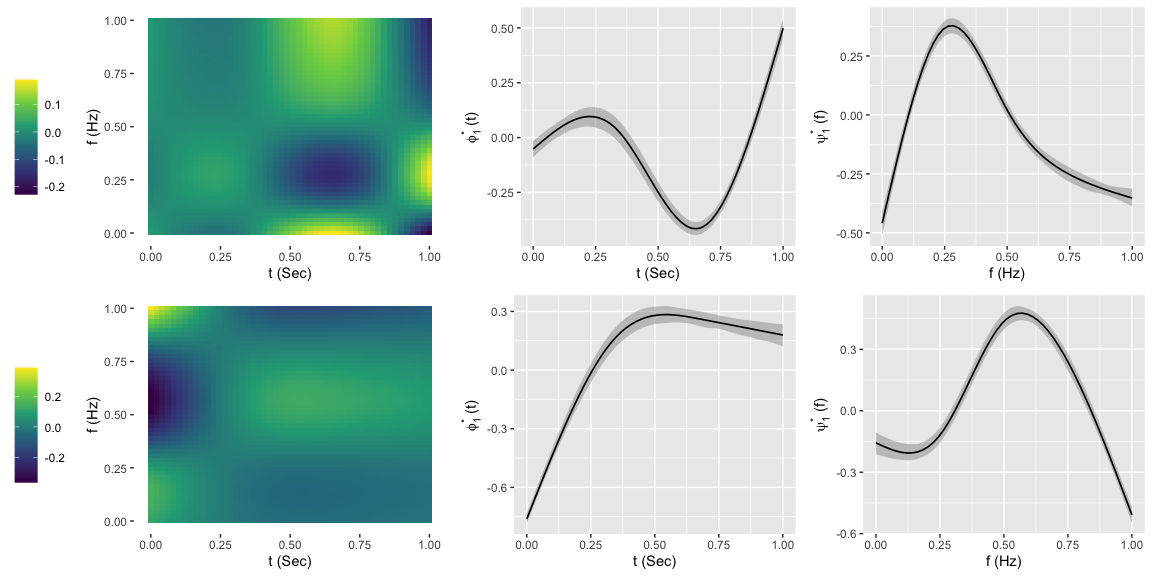
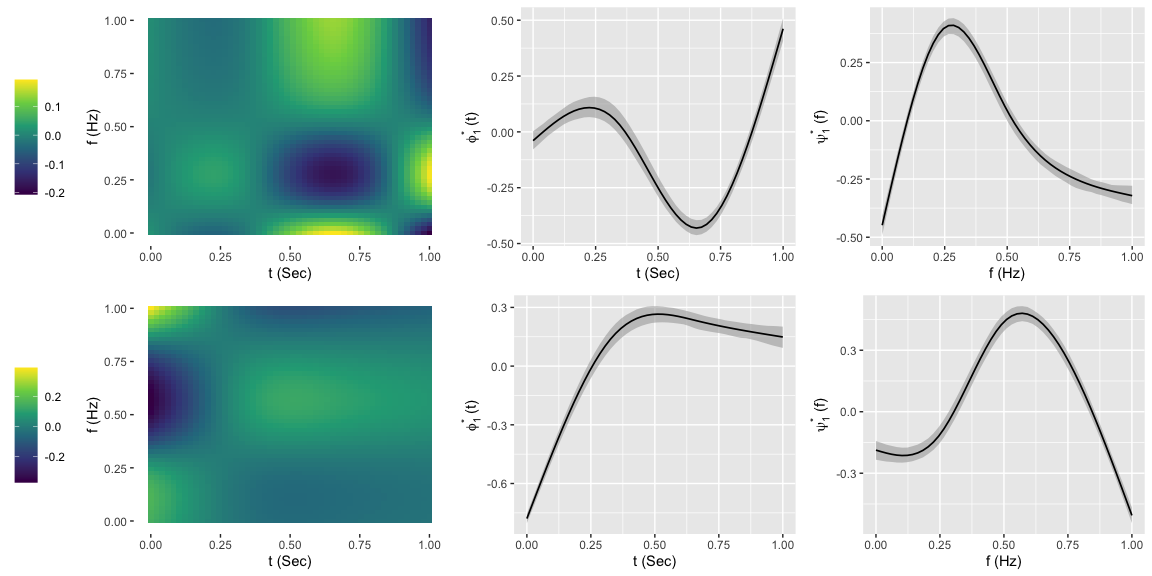
minor edits

diff --git a/README.md b/README.md
@@ -42,9 +42,9 @@ V <- randortho(K_F)[, 1:R]
 X <- cbind(1, runif(n, -3, 3))
 
 Sigma2s <- list(
-  Sigma2_epsilon = 0.05^2,
-  Sigma2_gamma = 0.2^2,
-  Sigma2_omega = runif(n, 0.2^2)
+  Sigma2_epsilon = 0.1^2,
+  Sigma2_gamma = 0.4^2,
+  Sigma2_omega = runif(n, 0.4^2)
 )
 
 Delta <- array(runif(J * R * p, 0.5, 1), dim = c(J, R, p)) 
@@ -104,7 +104,7 @@ bmef_2 <- bmef(Y, X, JJ, tt, ff, R = R_max, K_T, K_F, n_burn, n_sample,
 
 ``` r
 # Posterior inference on fixed and random effects
-bmef_obj <- bmef_2
+bmef_obj <- bmef_1
 cred_level <- 0.95
 
 res_infer_decompose <- inference.decompose.bmef(bmef_obj, cred_level)
